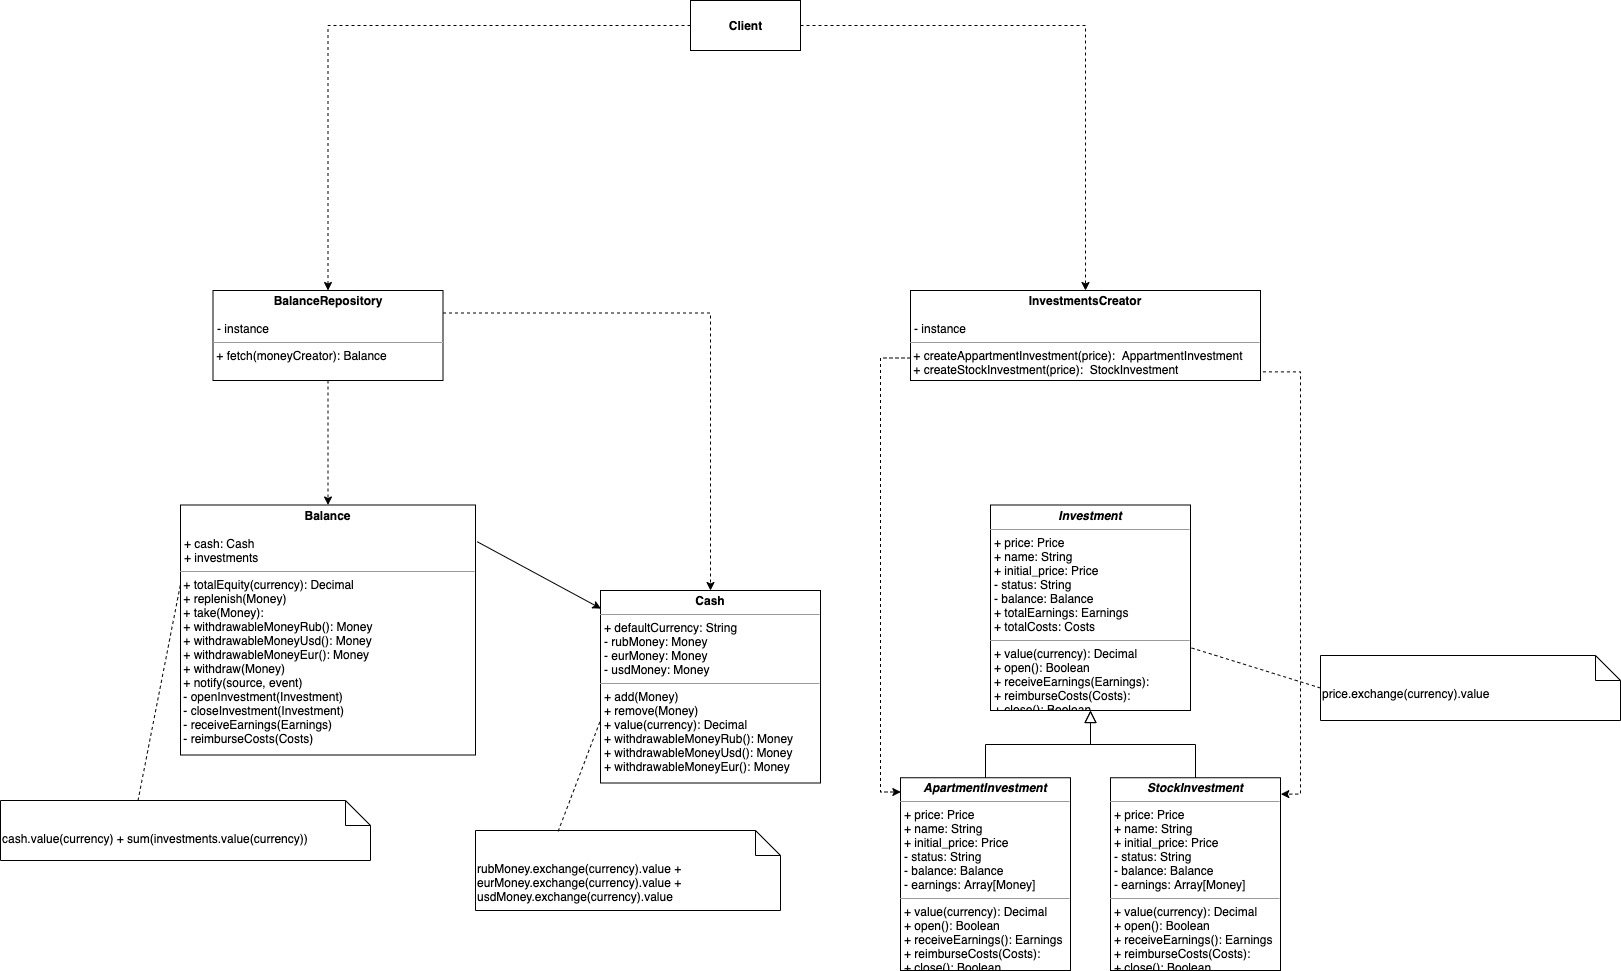
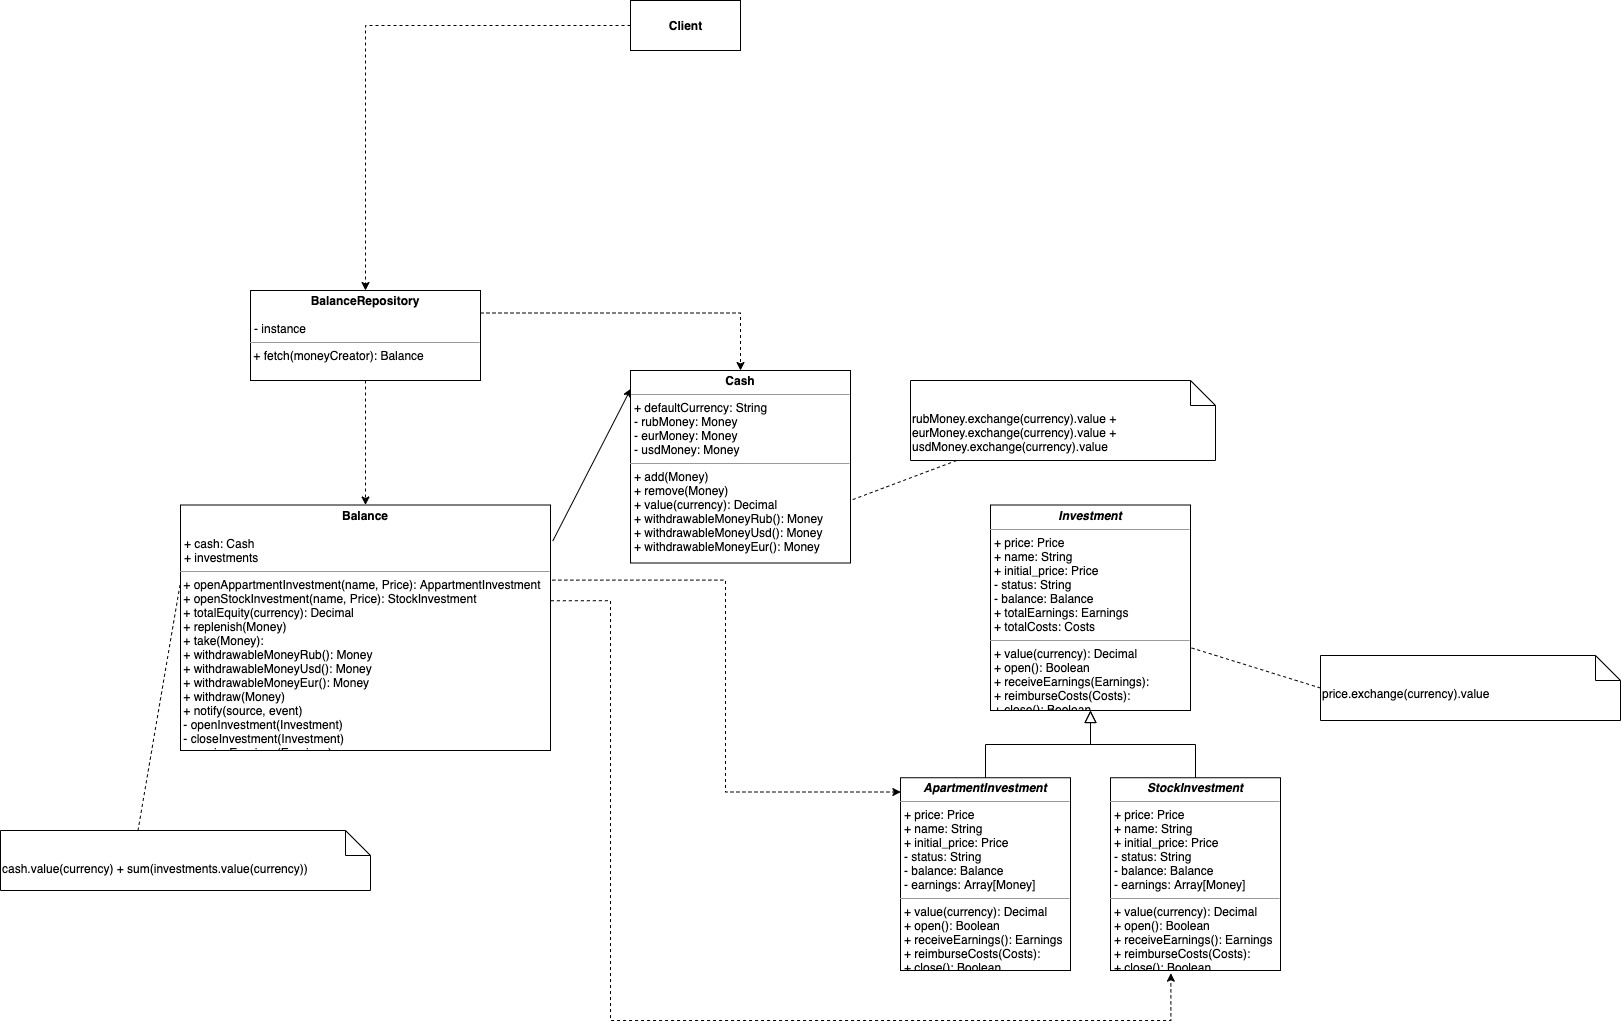
Make some adjustments

diff --git a/examples/investments subdomain/show_current_balance.rb b/examples/investments subdomain/show_current_balance.rb
@@ -350,6 +350,18 @@ class Balance
     @investments = investments
   end
 
+  def open_appartment_investment(name: ,price: )
+    apartment_investment = ApartmentInvestment.new(name: name, initial_price: price, balance: self)
+    apartment_investment.open
+    apartment_investment
+  end
+
+  def open_stock_investment(name: ,price: )
+    stock_investment = StockInvestment.new(name: name, initial_price: price, balance: self)
+    stock_investment.open
+    stock_investment
+  end
+
   def total_equity(currency)
     puts "-----------------"
     puts "Total equityin currency - #{currency}"
@@ -465,13 +477,10 @@ balance.replenish(money)
 money_creator.builder = PriceBuilder.new
 
 money = money_creator.build_usd(value: 9000)
-apartment_investment = ApartmentInvestment.new(name: "Rental", initial_price: money, balance: balance)
-apartment_investment.open
+apartment_investment = balance.open_appartment_investment(name: "Rental", price: money)
 
 money = money_creator.build_usd(value: 1000)
-apartment_investment = StockInvestment.new(name: "GOOG", initial_price: money, balance: balance)
-apartment_investment.open
-
+stock_investment = balance.open_stock_investment(name: "Rental", price: money)
 
 balance.total_equity(Currency::RUB)
 balance.total_equity(Currency::EUR)
